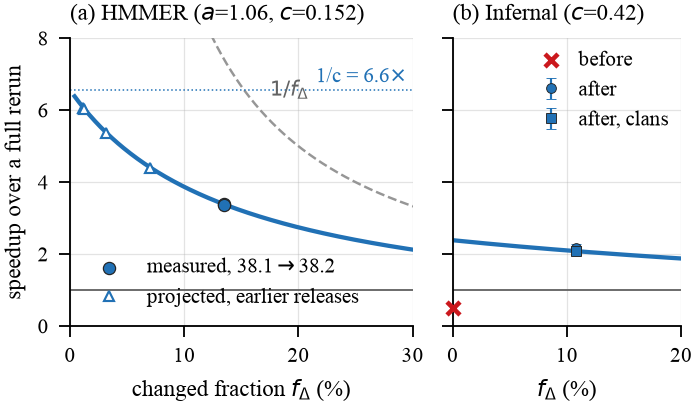
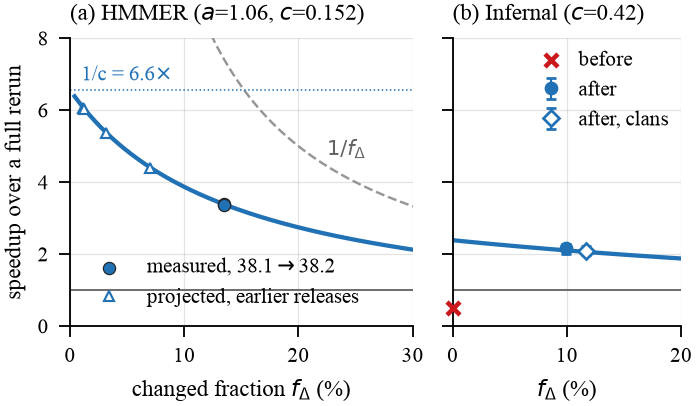
Figure fixes: label only the first and last Pfam bars, dashed model ticks on the phases plot, separate the 1/f and 1/c labels, offset the Infernal markers.

diff --git a/pipeline/paper/tare/figures/make_figures.py b/pipeline/paper/tare/figures/make_figures.py
@@ -70,10 +70,10 @@ def fig_churn():
     fig, (ax, bx) = plt.subplots(1, 2, figsize=(TWO, 1.9), gridspec_kw={"width_ratios": [1.35, 1]})
     x = list(range(len(releases)))
     prev = [families[0]] + families[:-1]
-    ax.bar(x, prev, color=C["n2"], width=0.62, label="carried from the previous release (net)")
+    ax.bar(x, prev, color=C["n2"], width=0.62, label="carried from the previous release")
     ax.bar(x[1:], [families[i] - prev[i] for i in x[1:]], bottom=prev[1:], color=C["tare"], width=0.62,
            label="net families added")
-    for i in x:
+    for i in (x[0], x[-1]):
         ax.text(i, families[i] + 400, f"{families[i]:,}", ha="center", fontsize=FS)
     ax.set_xticks(x)
     ax.set_xticklabels([f"{r}\n{d}" for r, d in zip(releases, dates)])
@@ -147,8 +147,9 @@ def fig_phases():
         ax.text(left + 8, i + 0.08, f"{left:.0f}s = {stock / left:.2f}$\\times$", va="center", fontsize=FS,
                 fontweight="bold", color=C["bad"] if stock < left else C["tare"])
         if pred is not None:
-            ax.plot([pred], [i + 0.42], marker="v", ms=3.2, color=C["ink"])
-    ax.text(110, 2.66, "$\\blacktriangledown$ model: discovery = $f_\\Delta T_{stock}$", fontsize=FS)
+            ax.plot([pred, pred], [i - 0.36, i + 0.36], color=C["ink"], lw=1.0, ls=(0, (1.5, 1.2)))
+    ax.plot([110, 135], [2.66, 2.66], color=C["ink"], lw=1.0, ls=(0, (1.5, 1.2)))
+    ax.text(142, 2.66, "model: discovery = $f_\\Delta T_{stock}$", fontsize=FS, va="center")
     ax.set_yticks(range(len(rows)))
     ax.set_yticklabels([r[0] for r in rows])
     ax.invert_yaxis()
@@ -180,10 +181,10 @@ def fig_model():
 
     fig, (ax, bx) = plt.subplots(1, 2, figsize=(ONE, 2.05), sharey=True, gridspec_kw={"width_ratios": [1.5, 1]})
     ax.plot([100 * f for f in fs], [1 / f for f in fs], ls="--", color=C["n3"], lw=0.8)
-    ax.text(17.5, 6.4, "$1/f_\\Delta$", fontsize=FS, color=C["stock"])
+    ax.text(22.5, 4.75, "$1/f_\\Delta$", fontsize=FS, color=C["stock"])
     ax.plot([100 * f for f in fs], [1 / (a * f + c) for f in fs], color=C["tare"], lw=1.4)
     ax.axhline(1 / c, color=C["tare"], lw=0.5, ls=":")
-    ax.text(29.5, 1 / c + 0.2, f"1/c = {1 / c:.1f}$\\times$", ha="right", fontsize=FS, color=C["tare"])
+    ax.text(1.0, 1 / c + 0.25, f"1/c = {1 / c:.1f}$\\times$", ha="left", fontsize=FS, color=C["tare"])
     ax.axhline(1, color=C["stock"], lw=0.6)
     ax.scatter([100 * f_meas] * len(pts), pts, color=C["tare"], edgecolor=C["ink"], lw=0.4, zorder=5, s=16,
                label="measured, 38.1$\\rightarrow$38.2")
@@ -205,12 +206,12 @@ def fig_model():
     bx.axhline(1, color=C["stock"], lw=0.6)
     bx.scatter([100 * 1 / 4227], [328.4 / 666.0], marker="x", color=C["bad"], s=18, zorder=5, clip_on=False,
                label="before")
-    for var, mk in (("noclan", "o"), ("clan", "s")):
+    for var, mk, dx, face in (("noclan", "o", -0.9, C["tare"]), ("clan", "D", 0.9, "white")):
         f_inf = m2[var]["f"]
-        bx.errorbar([100 * f_inf], [m2[var]["median_s_g"]],
+        bx.errorbar([100 * f_inf + dx], [m2[var]["median_s_g"]],
                     yerr=[[m2[var]["median_s_g"] - m2[var]["bootstrap_median"]["p2.5"]],
                           [m2[var]["bootstrap_median"]["p97.5"] - m2[var]["median_s_g"]]],
-                    fmt=mk, ms=3.2, color=C["tare"], mec=C["ink"], mew=0.3, capsize=1.5, lw=0.7, zorder=6,
+                    fmt=mk, ms=3.6, color=C["tare"], mfc=face, mec=C["tare"], mew=0.9, capsize=1.5, lw=0.7, zorder=6,
                     label="after" + ("" if var == "noclan" else ", clans"))
     bx.set_xlim(0, 20)
     bx.set_xlabel("$f_\\Delta$ (%)")
